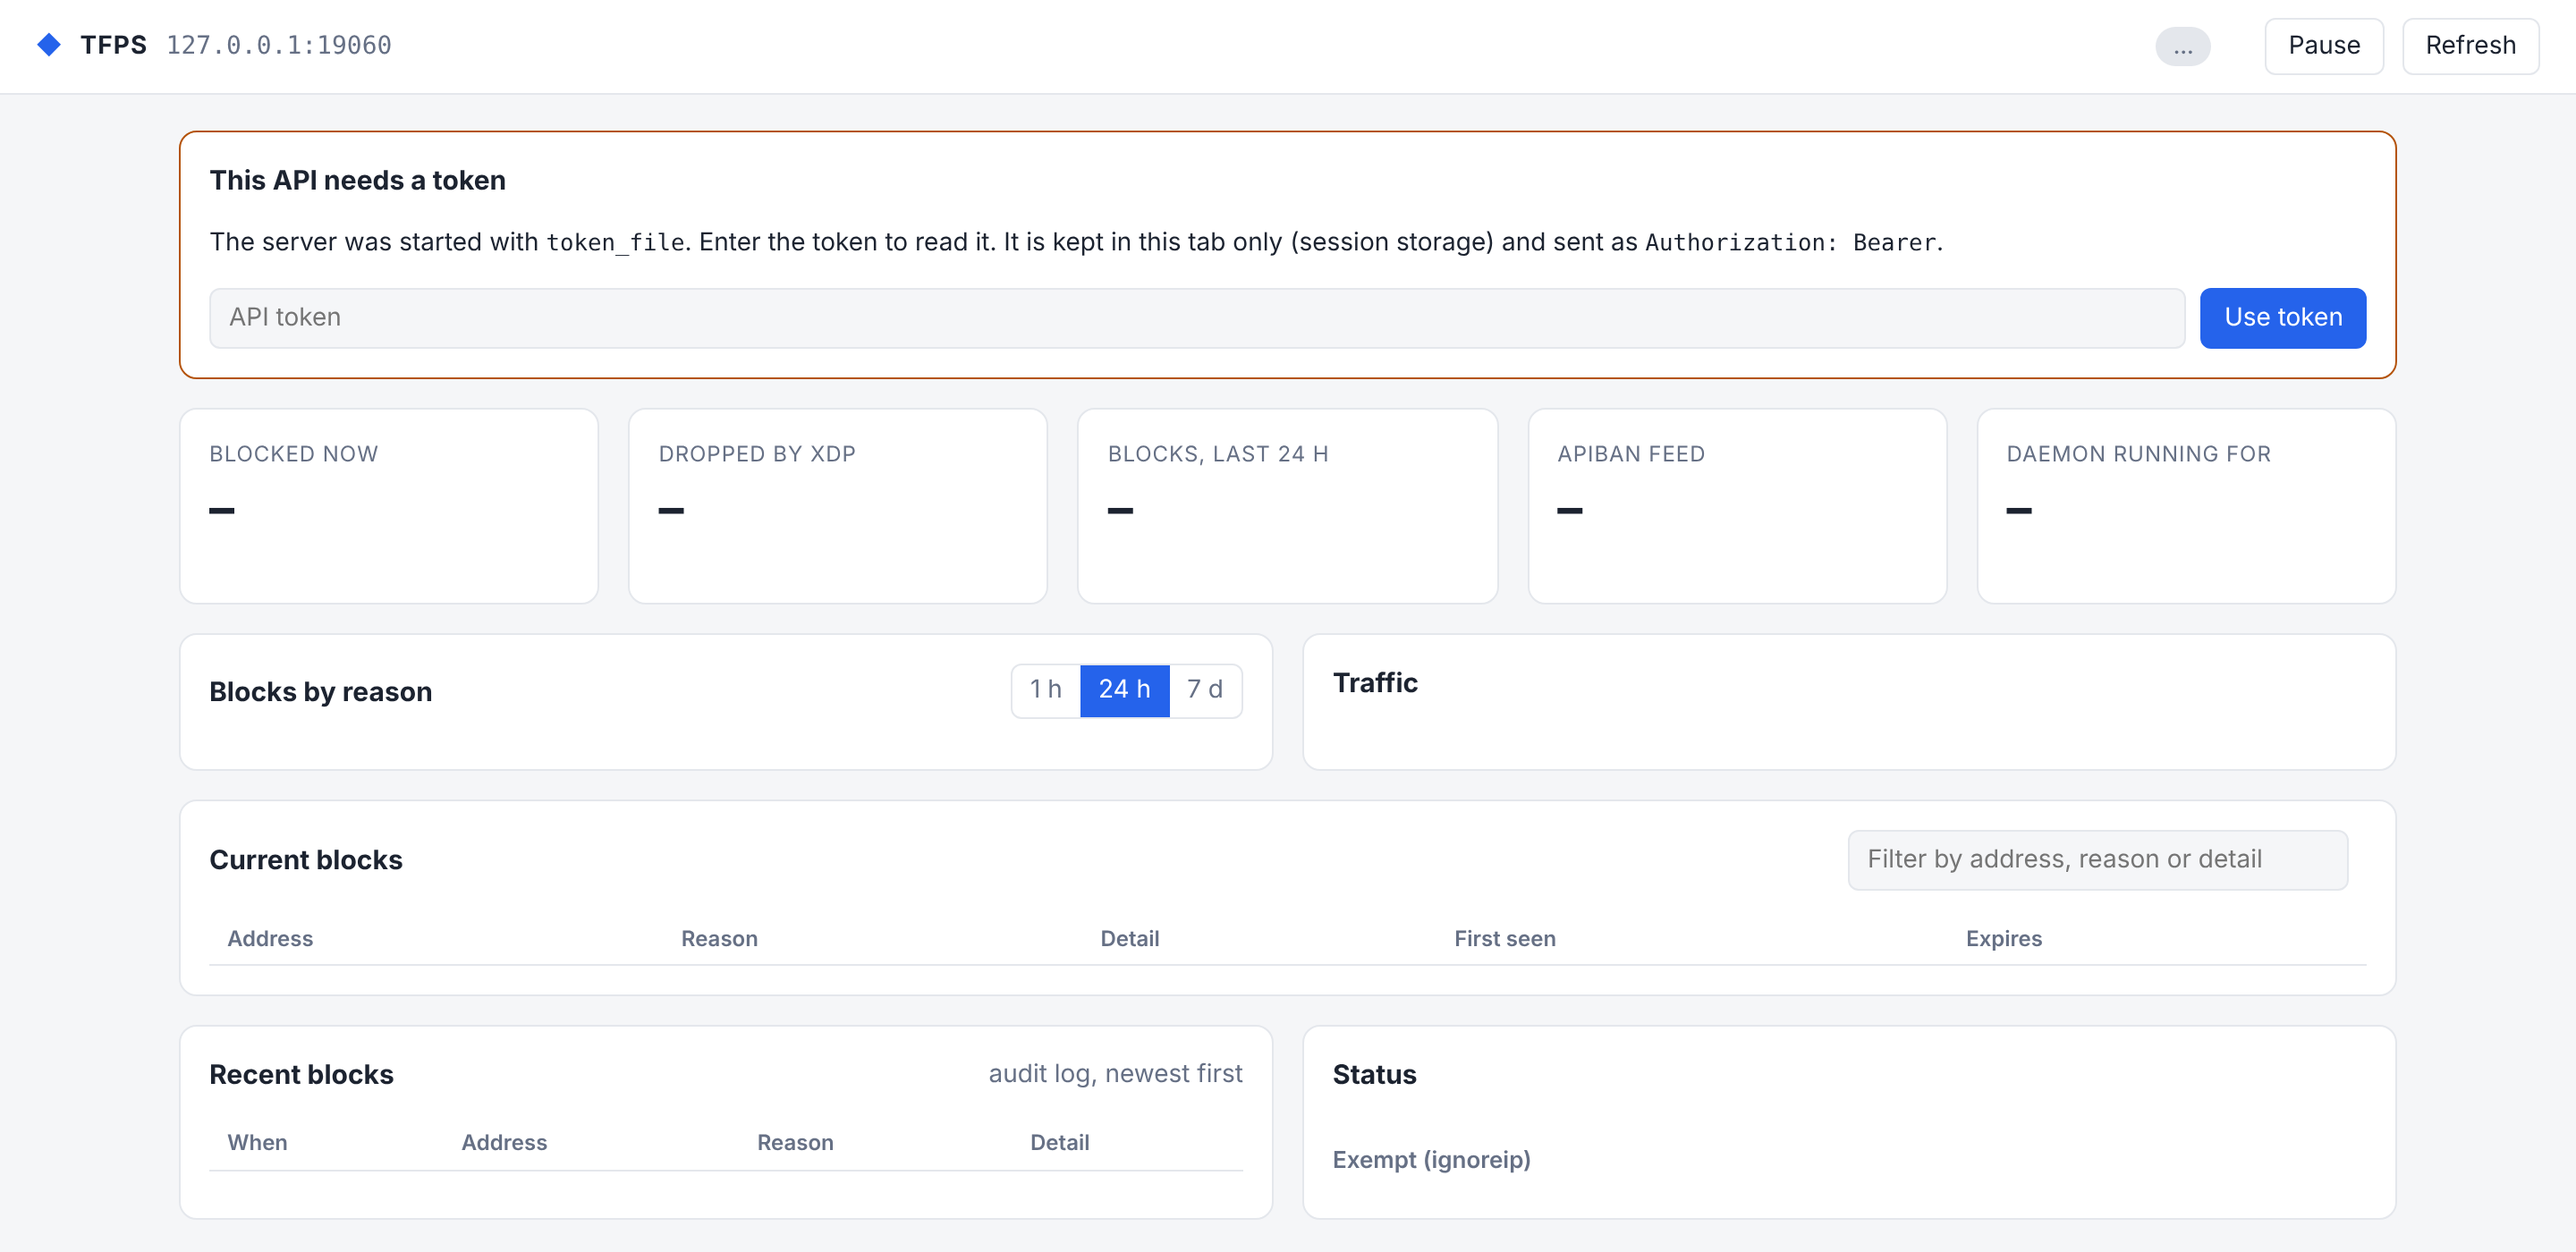
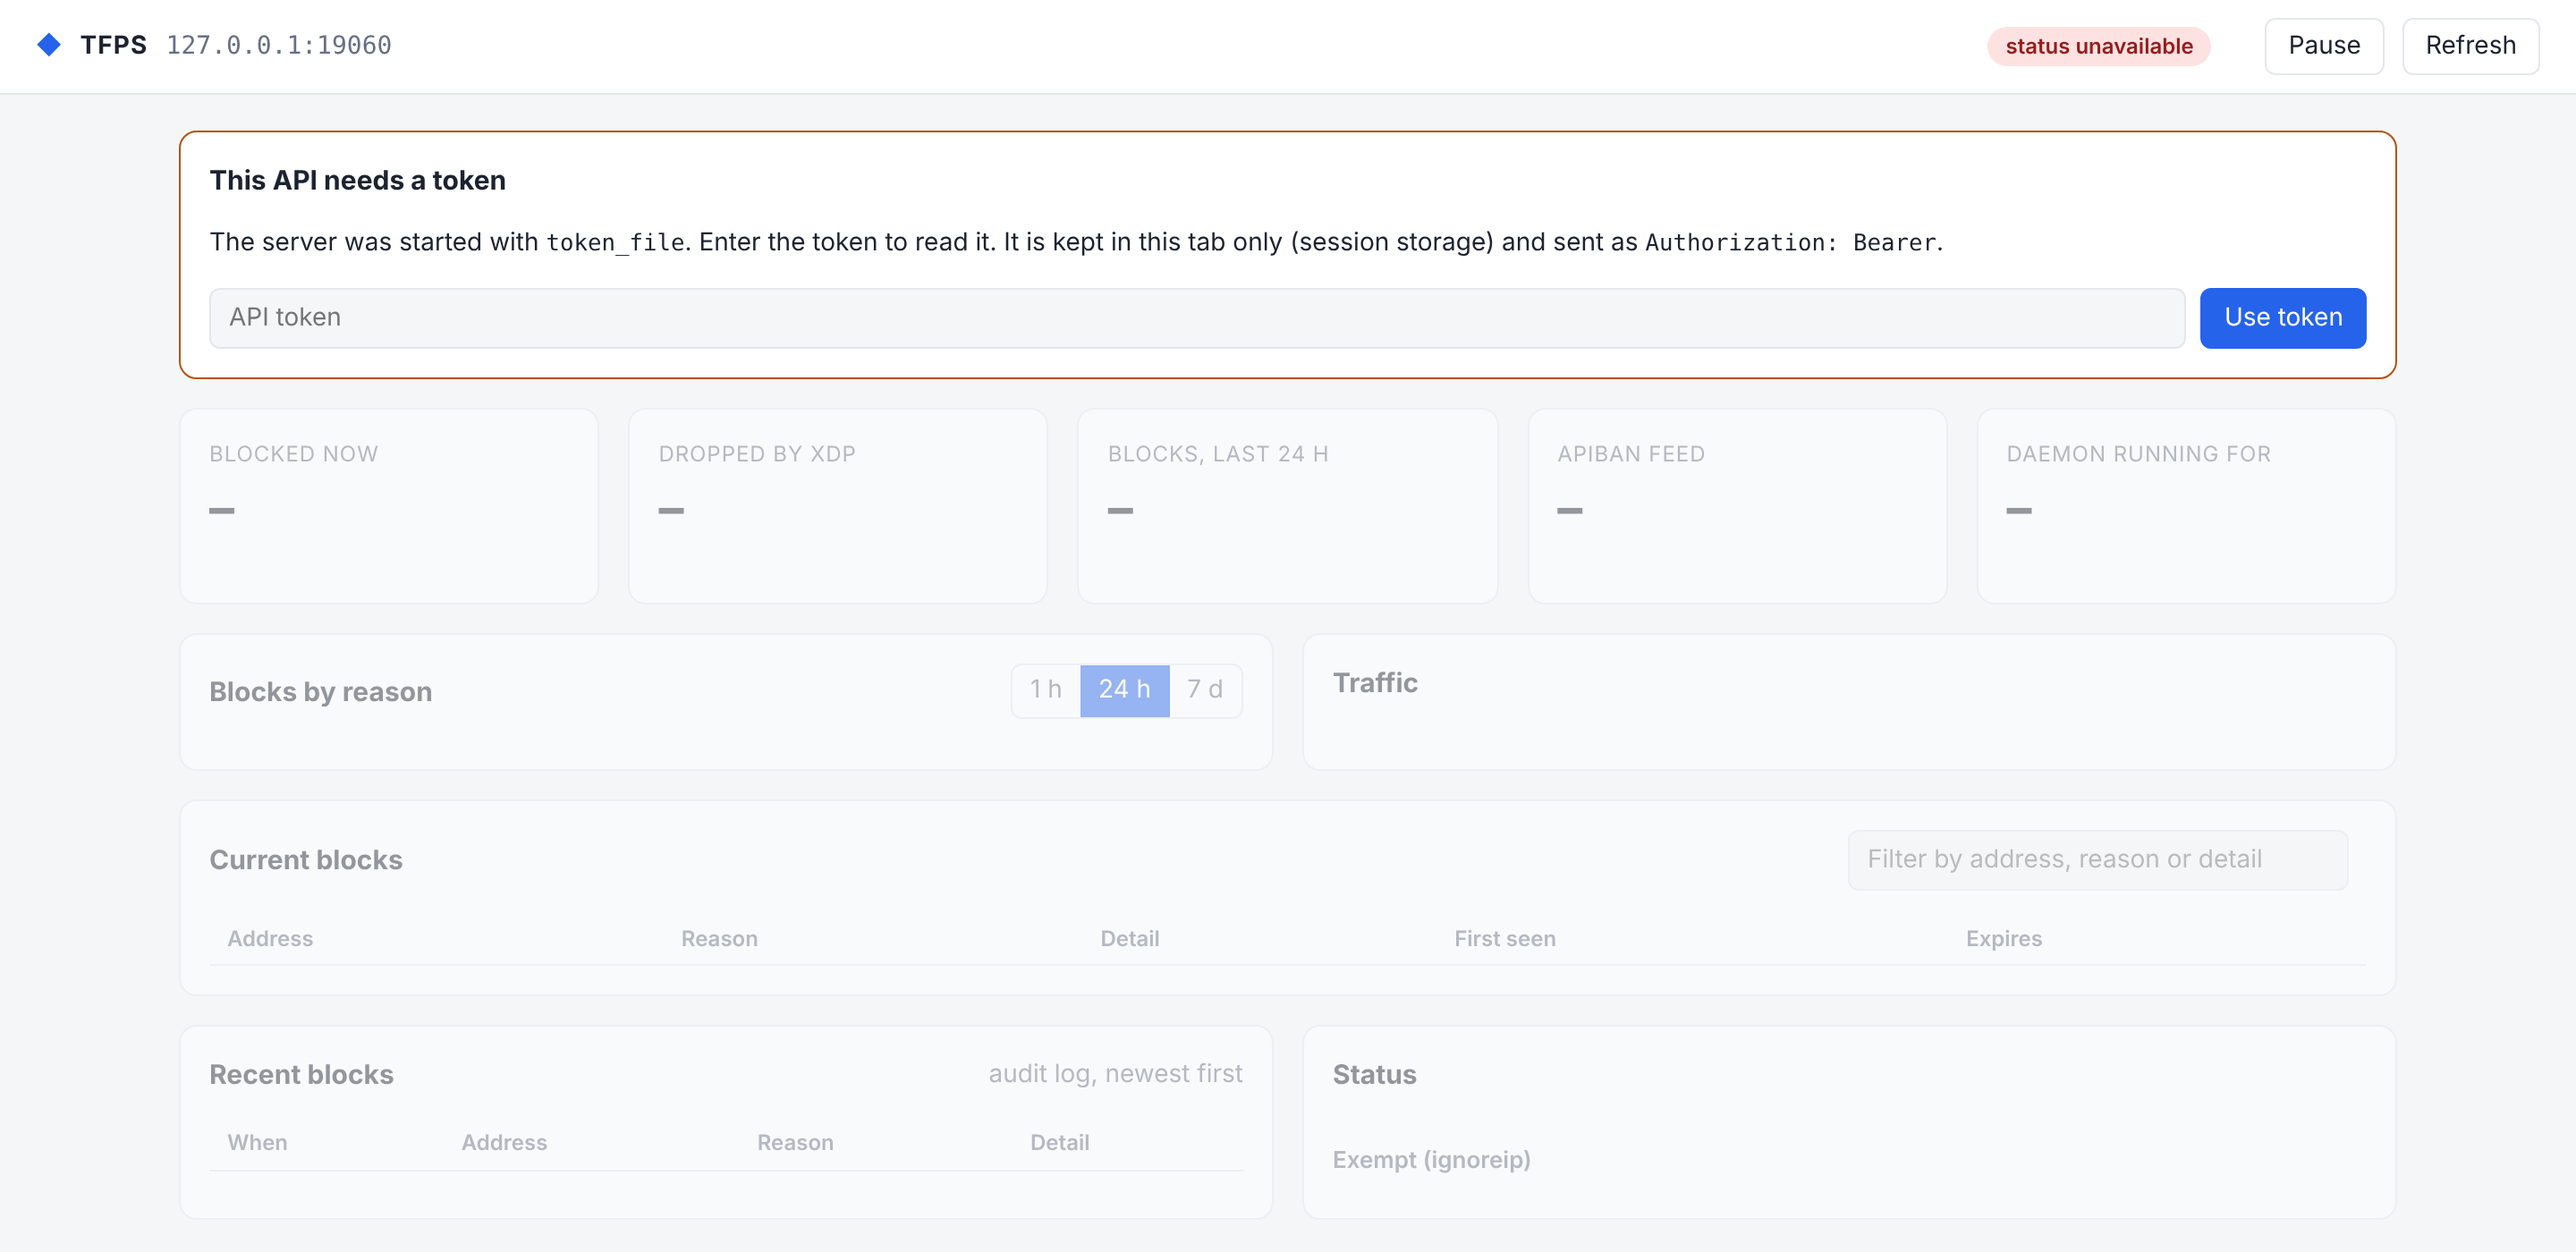
fix(dashboard): show a lost token as unknown status, not stale data
When a refresh is refused for want of a token (the token changed after a
successful login), the page now marks status unavailable, clears the
blocked count and the "updated" time, and dims everything but the token
prompt until a refresh succeeds again. Before, it kept the green
"enforcing" badge and the last figures as if they were current.

Claude-Session: https://claude.ai/code/session_01NZZMzNQKZU4oQnVuqina6o

diff --git a/crates/tfps/src/dashboard/dashboard.js b/crates/tfps/src/dashboard/dashboard.js
@@ -320,10 +320,17 @@ async function refreshAs(gen) {
   if (gen !== generation) return; // superseded by a newer refresh
   const results = [status, stats, log, blocks].filter(Boolean);
   if (results.some((r) => r.status === "rejected" && r.reason instanceof AuthError)) {
+    // Nothing on the page can be read any more: say so, rather than keep the
+    // last answers on screen as if they were current.
     needToken(true);
+    statusUnknown();
+    lastUpdate = 0;
+    showUpdated();
+    document.body.classList.add("stale");
     return;
   }
   needToken(false);
+  document.body.classList.remove("stale");
 
   if (status.status === "fulfilled") {
     renderStatus(status.value);

diff --git a/crates/tfps/src/dashboard/dashboard.css b/crates/tfps/src/dashboard/dashboard.css
@@ -111,6 +111,8 @@ td.when { white-space: nowrap; font-variant-numeric: tabular-nums; }
 .tag { display: inline-block; padding: 0 8px; border-radius: 4px; background: var(--line); font-size: 12px; white-space: nowrap; }
 .empty { color: var(--muted); padding: 12px 0; }
 .error { color: var(--bad-fg); margin: 8px 0 0; }
+/* The API stopped answering (a token is needed): everything but the prompt is old. */
+body.stale main > :not(#auth) { opacity: 0.45; }
 footer { text-align: center; padding: 8px 20px 24px; font-size: 12px; }
 @media (max-width: 520px) {
   main { padding: 12px; gap: 12px; }
